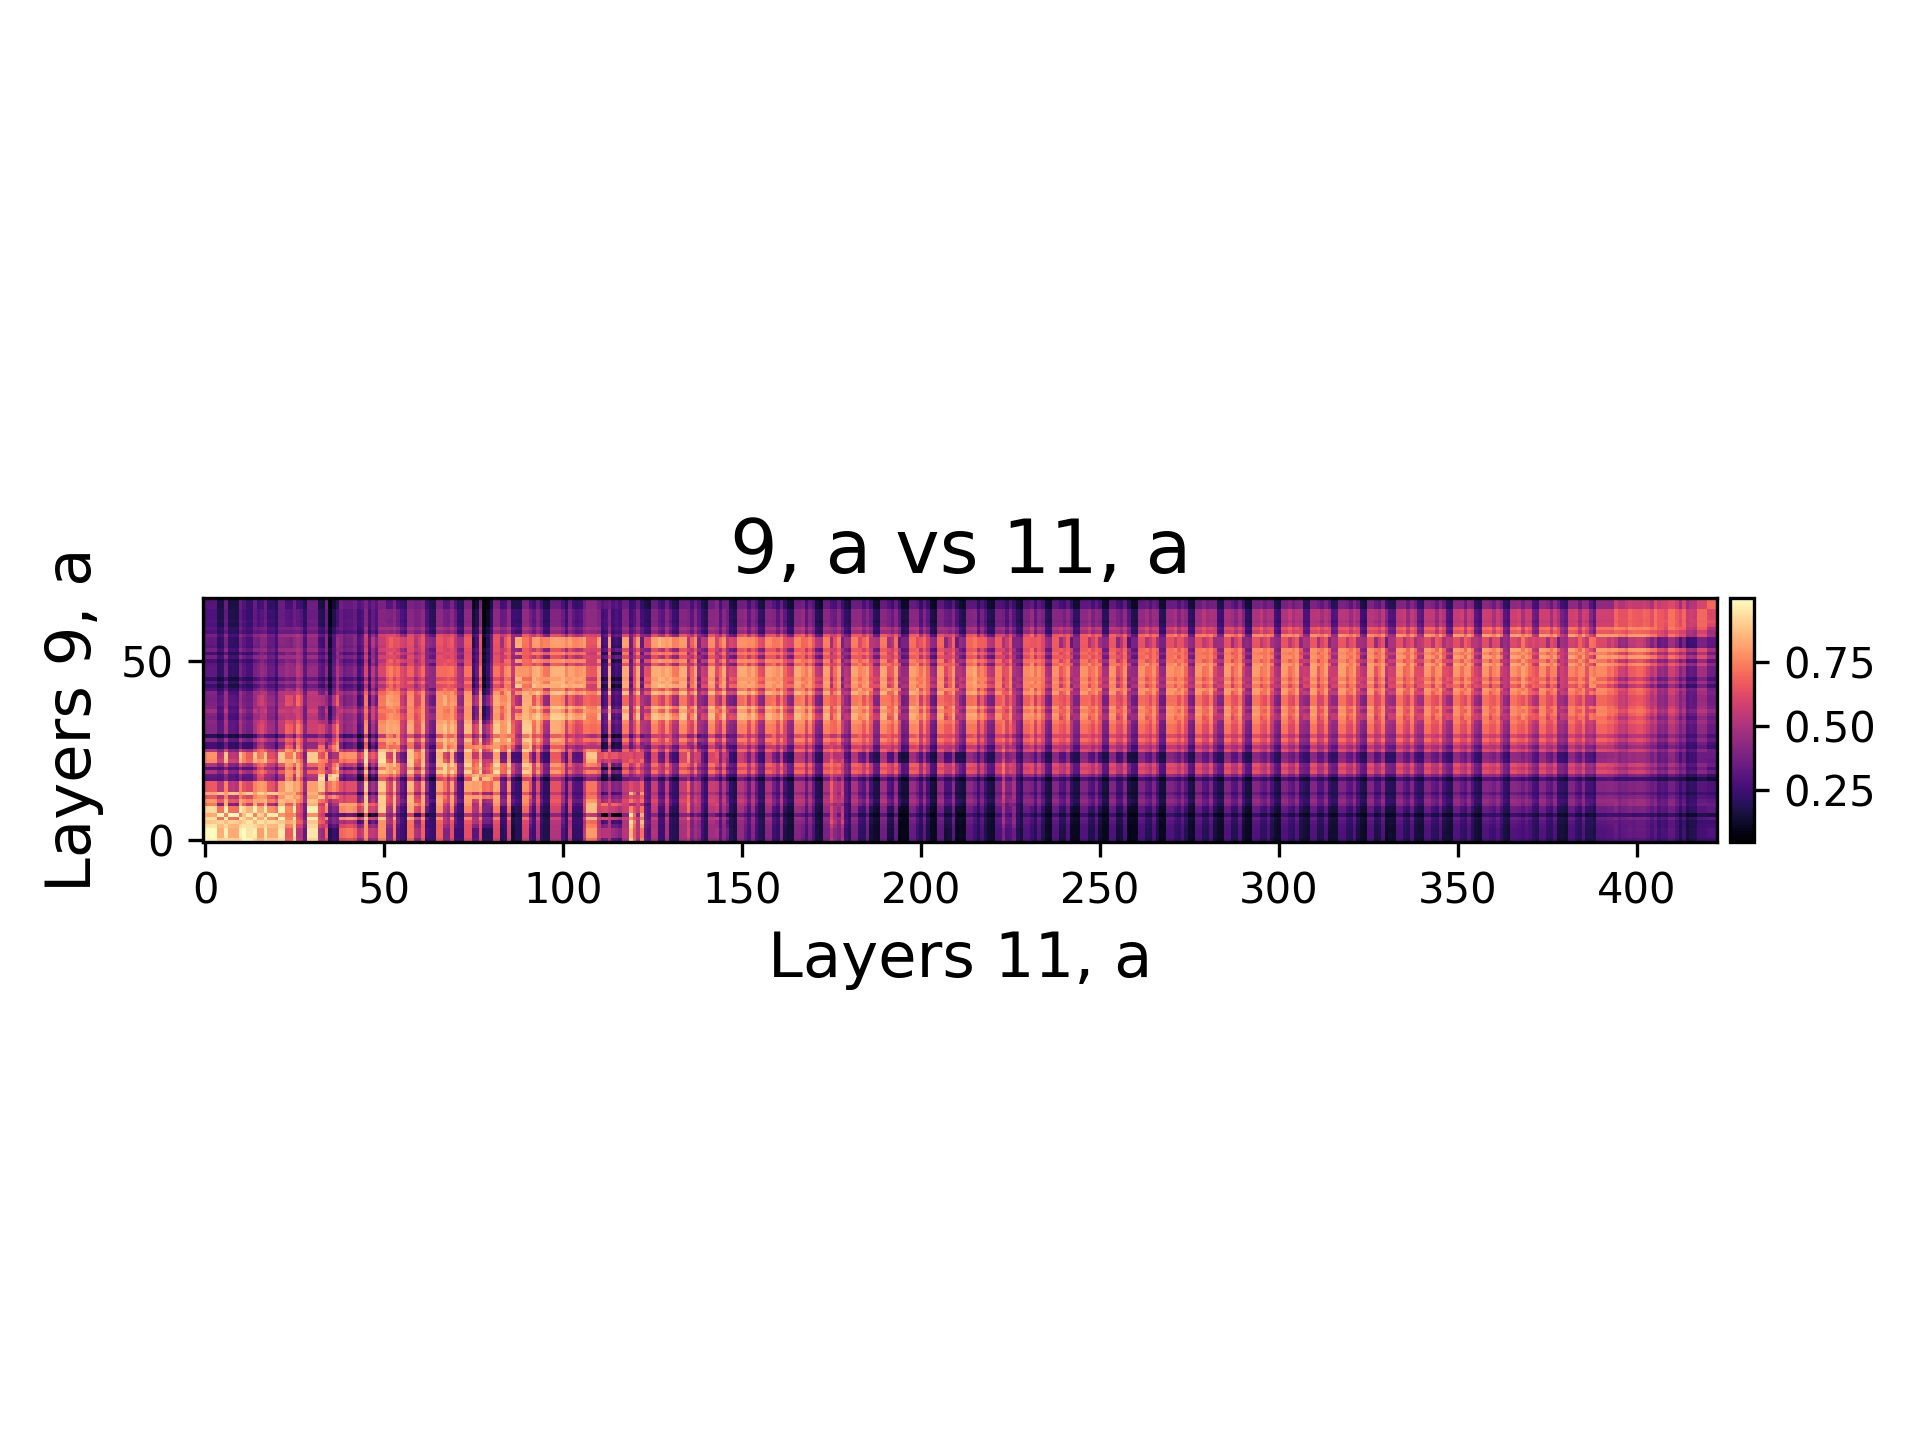
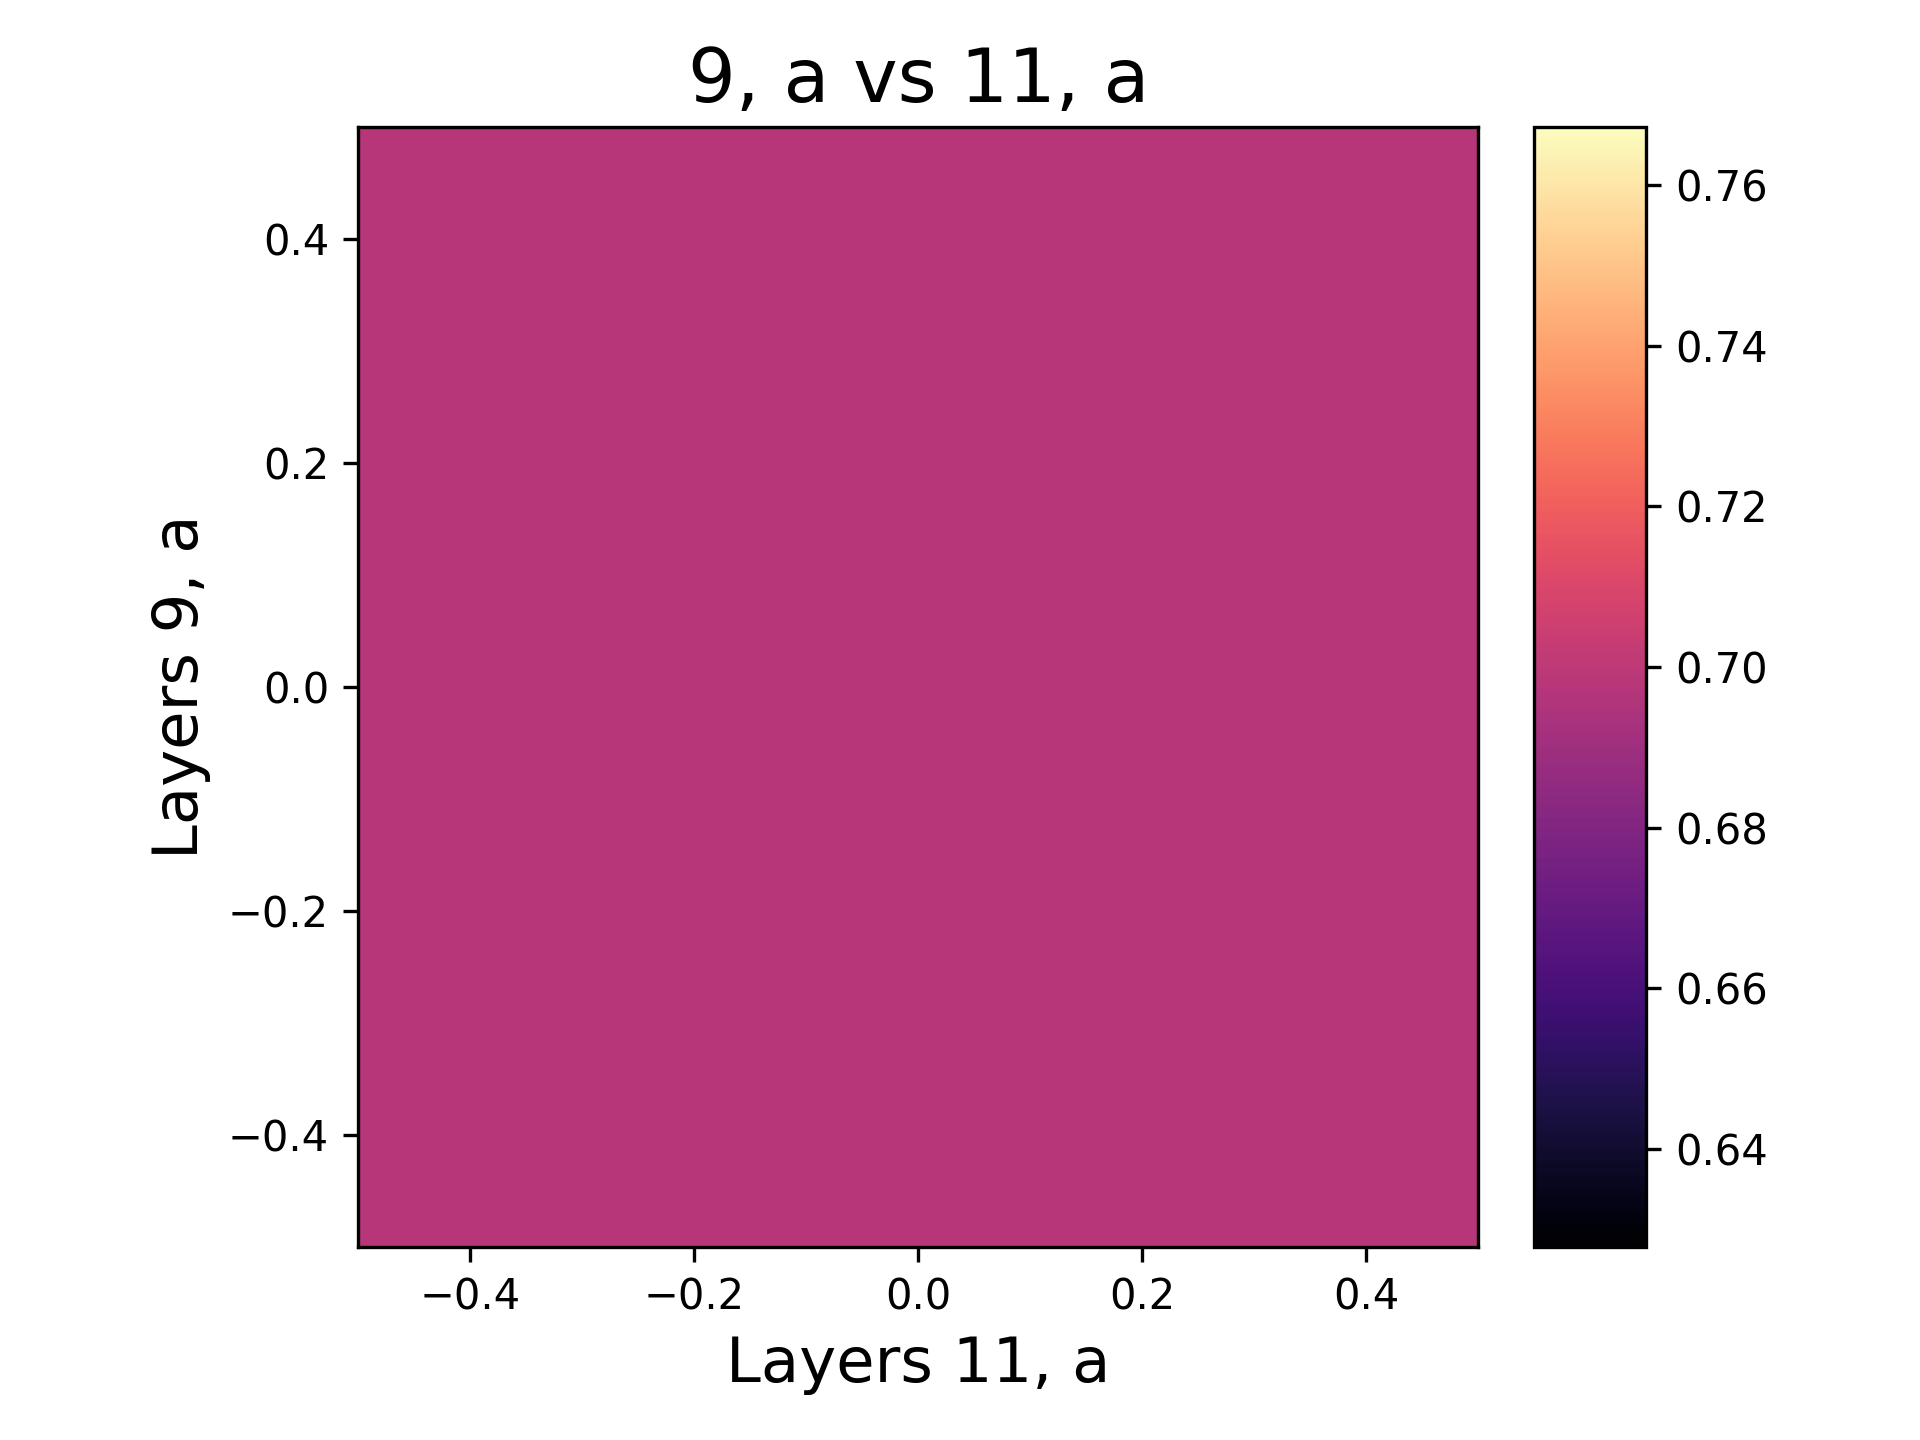
heatmaps de correlações entre datasets

diff --git a/src/dataAnalysis/datasetCorrelation.py b/src/dataAnalysis/datasetCorrelation.py
@@ -1,0 +1,78 @@
+from ..plot import *
+from typing import List,Tuple
+from .codifications import *
+from seaborn import heatmap
+import matplotlib.pyplot as plt
+from scipy.stats import pearsonr
+import numpy as np
+
+results_folder = "./dataStorage/results"
+datasets = [('imagenet-sketch', 1), ('cifar10', 0), ('fgvc-aircraft', 0), ('ILSVRC/imagenet-1k', 0)]
+
+instances = getInstances()
+
+def dtNameSubset(dt: Tuple[str, int] | List[Tuple[str, int]]):
+    if isinstance(dt, tuple):
+        name, subset = dt
+        return f"{name.replace('/', '-')}({subset})"
+    
+    # Otherwise, treat it as a list of tuples
+    return [f"{d[0].replace('/', '-')}({d[1]})" for d in dt]
+
+def getDataFrames(results_folder=results_folder, datasets: List[Tuple[str, int]] = datasets):
+
+    df_dict = {}
+
+    for dt in datasets:
+        dt_name_w_subset = dtNameSubset(dt)
+
+        csv_path = f"{results_folder}/{dt[0].replace('/', '-')}Data.csv"
+
+        data = findInCsv(csv_path, ['dataset'], [dt_name_w_subset])
+
+        df_dict[dt_name_w_subset] = dataFrameFromData(data, 'pearson')
+
+    return df_dict
+
+
+def datasetCorrelation():
+    df_dict = getDataFrames()
+
+    data = np.zeros((len(datasets), len(datasets)))
+
+    for i in range(len(datasets)):
+        for j in range(i):
+            dt1_name = dtNameSubset(datasets[i])
+            dt2_name = dtNameSubset(datasets[j])
+
+            df1 = df_dict[dt1_name]
+            df2 = df_dict[dt2_name]
+
+            correlations = df1.corrwith(df2, method='pearson')
+
+            val = correlations[instances[0]]
+
+            data[i][j] = val
+            data[j][i] = val
+
+    _ = np.fill_diagonal(data, 1.0)
+
+    df = pd.DataFrame(data)
+
+    names = dtNameSubset(datasets)
+
+    df.columns = names
+    df.index = names
+
+    print(df)
+
+    plt.figure(figsize=(10, 8))
+    
+    heatmap(df, vmin=-0.5, vmax=1.0)
+    
+    plt.tight_layout()
+    plt.show()
+
+
+if __name__ == "__main__":
+    datasetCorrelation()

diff --git a/src/methods/cka.py b/src/methods/cka.py
@@ -3,7 +3,7 @@ import torch
 from tqdm import tqdm
 from warnings import warn
 import os
-from zUtils.codifications import *
+from src.dataAnalysis.codifications import *
 from ..fileSystem.fileSystem import getJsonInfo, updateJson
 import json
 
@@ -19,7 +19,7 @@ def cka(dt_info, fst_modelc, snd_modelc):
     
     cka = modifiedCka(fst_modelc.model, snd_modelc.model,
               model1_name=m1_name, model2_name=m2_name,
-              #model1_layers=fst_modelc.model.named_modules, model2_layers=snd_modelc.model.named_modules, a princípio extrai de todos por padrão
+              model1_layers=getModelLayer(fst_modelc.model), model2_layers=getModelLayer(snd_modelc.model), #a princípio extrai de todos por padrão
               device='cuda' if torch.cuda.is_available() else 'cpu')
     
     cka.setNewAtt(m1_name, m2_name, cka_folder)
@@ -36,6 +36,14 @@ def cka(dt_info, fst_modelc, snd_modelc):
 
     return
 
+def getModelLayer(model_name):
+    match model_name:
+        case 'vit_b_16' | 'vit_l_16' | 'vit_h_14':
+            return ['getitem_5']
+        case 'maxvit_t':
+            return ['classifier.0']
+        case _:
+            return ['avgpool']
 
 #modificando método de comparação para salvar em disco os resultados de um modelo para não ser necessário recalcular para a próxima comparação
 class modifiedCka(CKA):

diff --git a/zUtils/debug.py b/zUtils/debug.py
@@ -29,6 +29,12 @@ import clip
 #print(model.named_children)
 
 if __name__ == "__main__":
-    model = resnet18()
-    print(model.named_modules())
+    import numpy as np
+
+    # Create a random upper triangular matrix
+    a = np.triu(np.random.rand(3, 3))
+
+    # Add it to its transpose (excluding the diagonal from the transpose)
+    symmetric_B = a + np.triu(a, 1).T
+    print(symmetric_B)
     

diff --git a/src/dataAnalysis/__init__.py b/src/dataAnalysis/__init__.py
@@ -1,0 +1,7 @@
+from . import dataset_ipc
+from . import makeHeatmaps
+from . import correlationAnalysis
+from . import clusteringAnalysis
+from . import codifications
+
+__all__ = ["dataset_ipc", "makeHeatmaps", "correlationAnalysis", "clusteringAnalysis", "codifications"]

diff --git a/zUtils/__init__.py b/zUtils/__init__.py
@@ -1,9 +1,4 @@
 from . import debug
-from . import dataset_ipc
-from . import makeHeatmaps
 from . import modelLayers
-from . import correlationAnalysis
-from . import clusteringAnalysis
-from . import codifications
 
-__all__ = ["debug", "dataset_ipc", "makeHeatmaps", "modelLayers", "correlationAnalysis", "clusteringAnalysis", "codifications"]
+__all__ = ["debug", "modelLayers"]

diff --git a/main.py b/main.py
@@ -25,8 +25,8 @@ parser.add_argument("--n_classes", type=int, required=False, help="Specify numbe
 parser.add_argument("-ss", "--specific_subset", type=int, required=False, help="Specify a specific subset number to load from cache")
 parser.add_argument("--m1_source", type=str, required=False, default="torchvision", help="Specify from where the first model to be loaded come from, default is pytorch")
 parser.add_argument("--m2_source", type=str, required=False, default="torchvision", help="Specify from where the second model to be loaded come from, default is pytorch")
-parser.add_argument("-m1_w", "--m1_weights", type=str, required=False, default="DEFAULT", help="Specify weights for torchvision models")
-parser.add_argument("-m2_w", "--m2_weights", type=str, required=False, default="DEFAULT", help="Specify weights for torchvision models")
+parser.add_argument("-m1_w", "--m1_weights", type=str, required=False, default="IMAGENET1K_V1", help="Specify weights for torchvision models")
+parser.add_argument("-m2_w", "--m2_weights", type=str, required=False, default="IMAGENET1K_V1", help="Specify weights for torchvision models")
 parser.add_argument("-ed", "--existing_dissimilarity", action='store_true', required=False, default=False, help="Use previously calculated cossine dissimilarity for run")
 parser.add_argument("-sc", "--same_classes", type=str, required=False, default=None, nargs='+', help="Specify [name, subset, num_classes, num_images] of a dataset for its classes to be used, only works for new subsets")
 parser.add_argument("-out", "--output_file", type=str, required=False, default="./dataStorage/results/runData.csv", help="Specify path to file the run information will be written")

diff --git a/src/__init__.py b/src/__init__.py
@@ -11,5 +11,6 @@ from .methods import *
 from . import plot
 from . import memoryManagement
 from . import dataCollection
+from .dataAnalysis import *
 
-__all__ = ["extractionTraining", "featureExtraction", "modelCreation", "plot", "loadDataset", "similarityAnalysis", "datasetUtils", "memoryManagement", "dataCollection", "fileSystem", "modelClass", "classUtils", "rsa", "cka"]
+__all__ = ["extractionTraining", "featureExtraction", "modelCreation", "plot", "loadDataset", "similarityAnalysis", "datasetUtils", "memoryManagement", "dataCollection", "fileSystem", "modelClass", "classUtils", "rsa", "cka", "dataset_ipc", "makeHeatmaps", "correlationAnalysis", "clusteringAnalysis", "codifications"]

diff --git a/runMain.py b/runMain.py
@@ -134,6 +134,7 @@ if __name__ == "__main__":
     
     datasets = [('timm/mini-imagenet', 0), ('imagenet-sketch', 1), ('cifar10', 0), ('cifar100', 0), ('fgvc-aircraft', 0), ('ILSVRC/imagenet-1k', 0)]
     datasets = [datasets[1], datasets[2], datasets[4], datasets[5]]
+    datasets = [datasets[1]]
     
     method_name = 'cka'
     